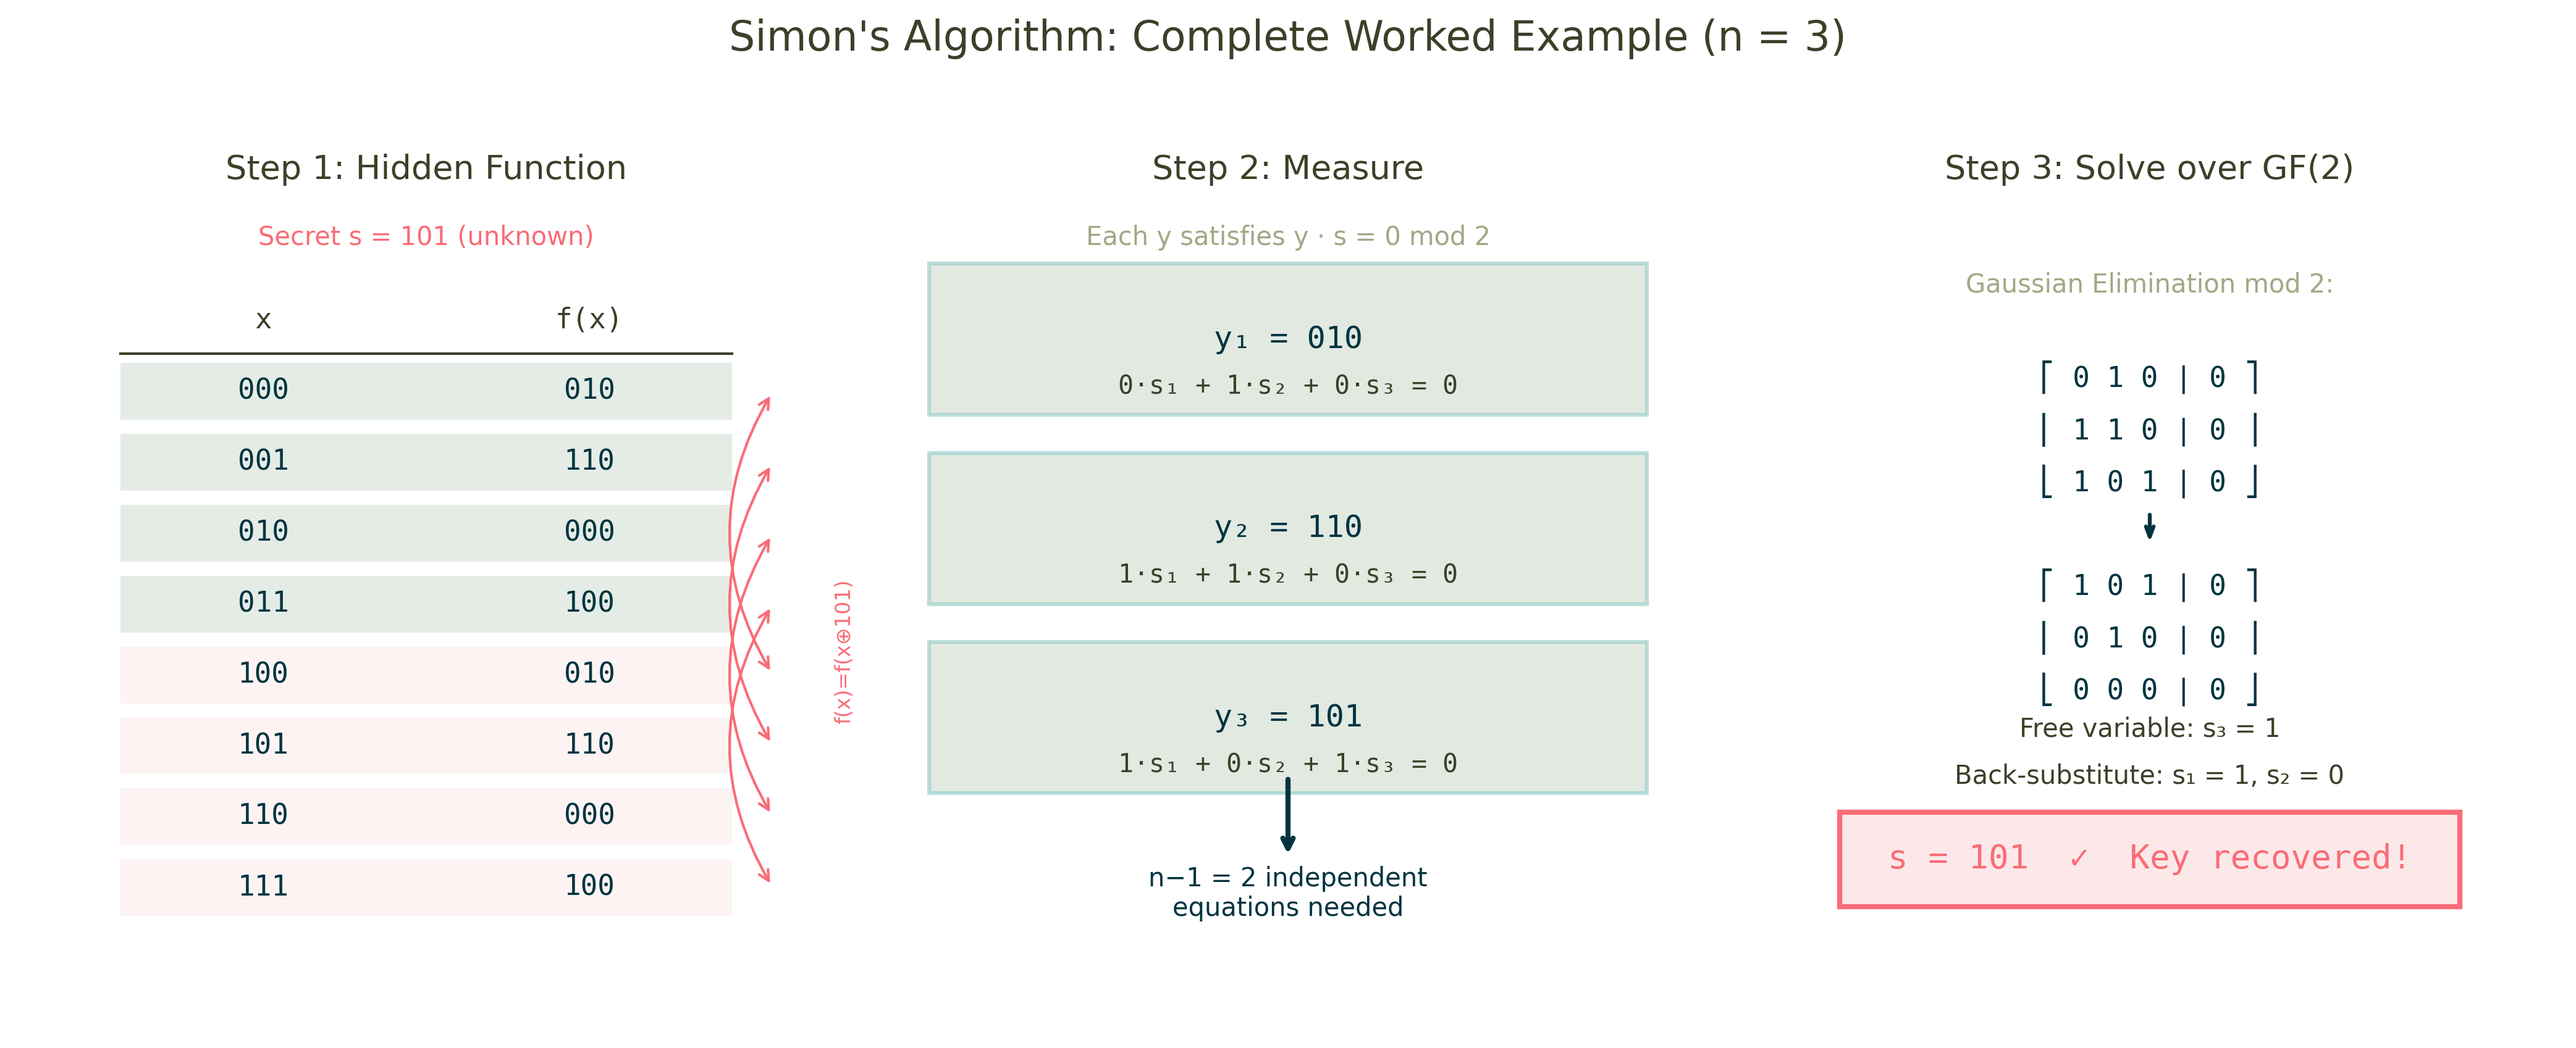
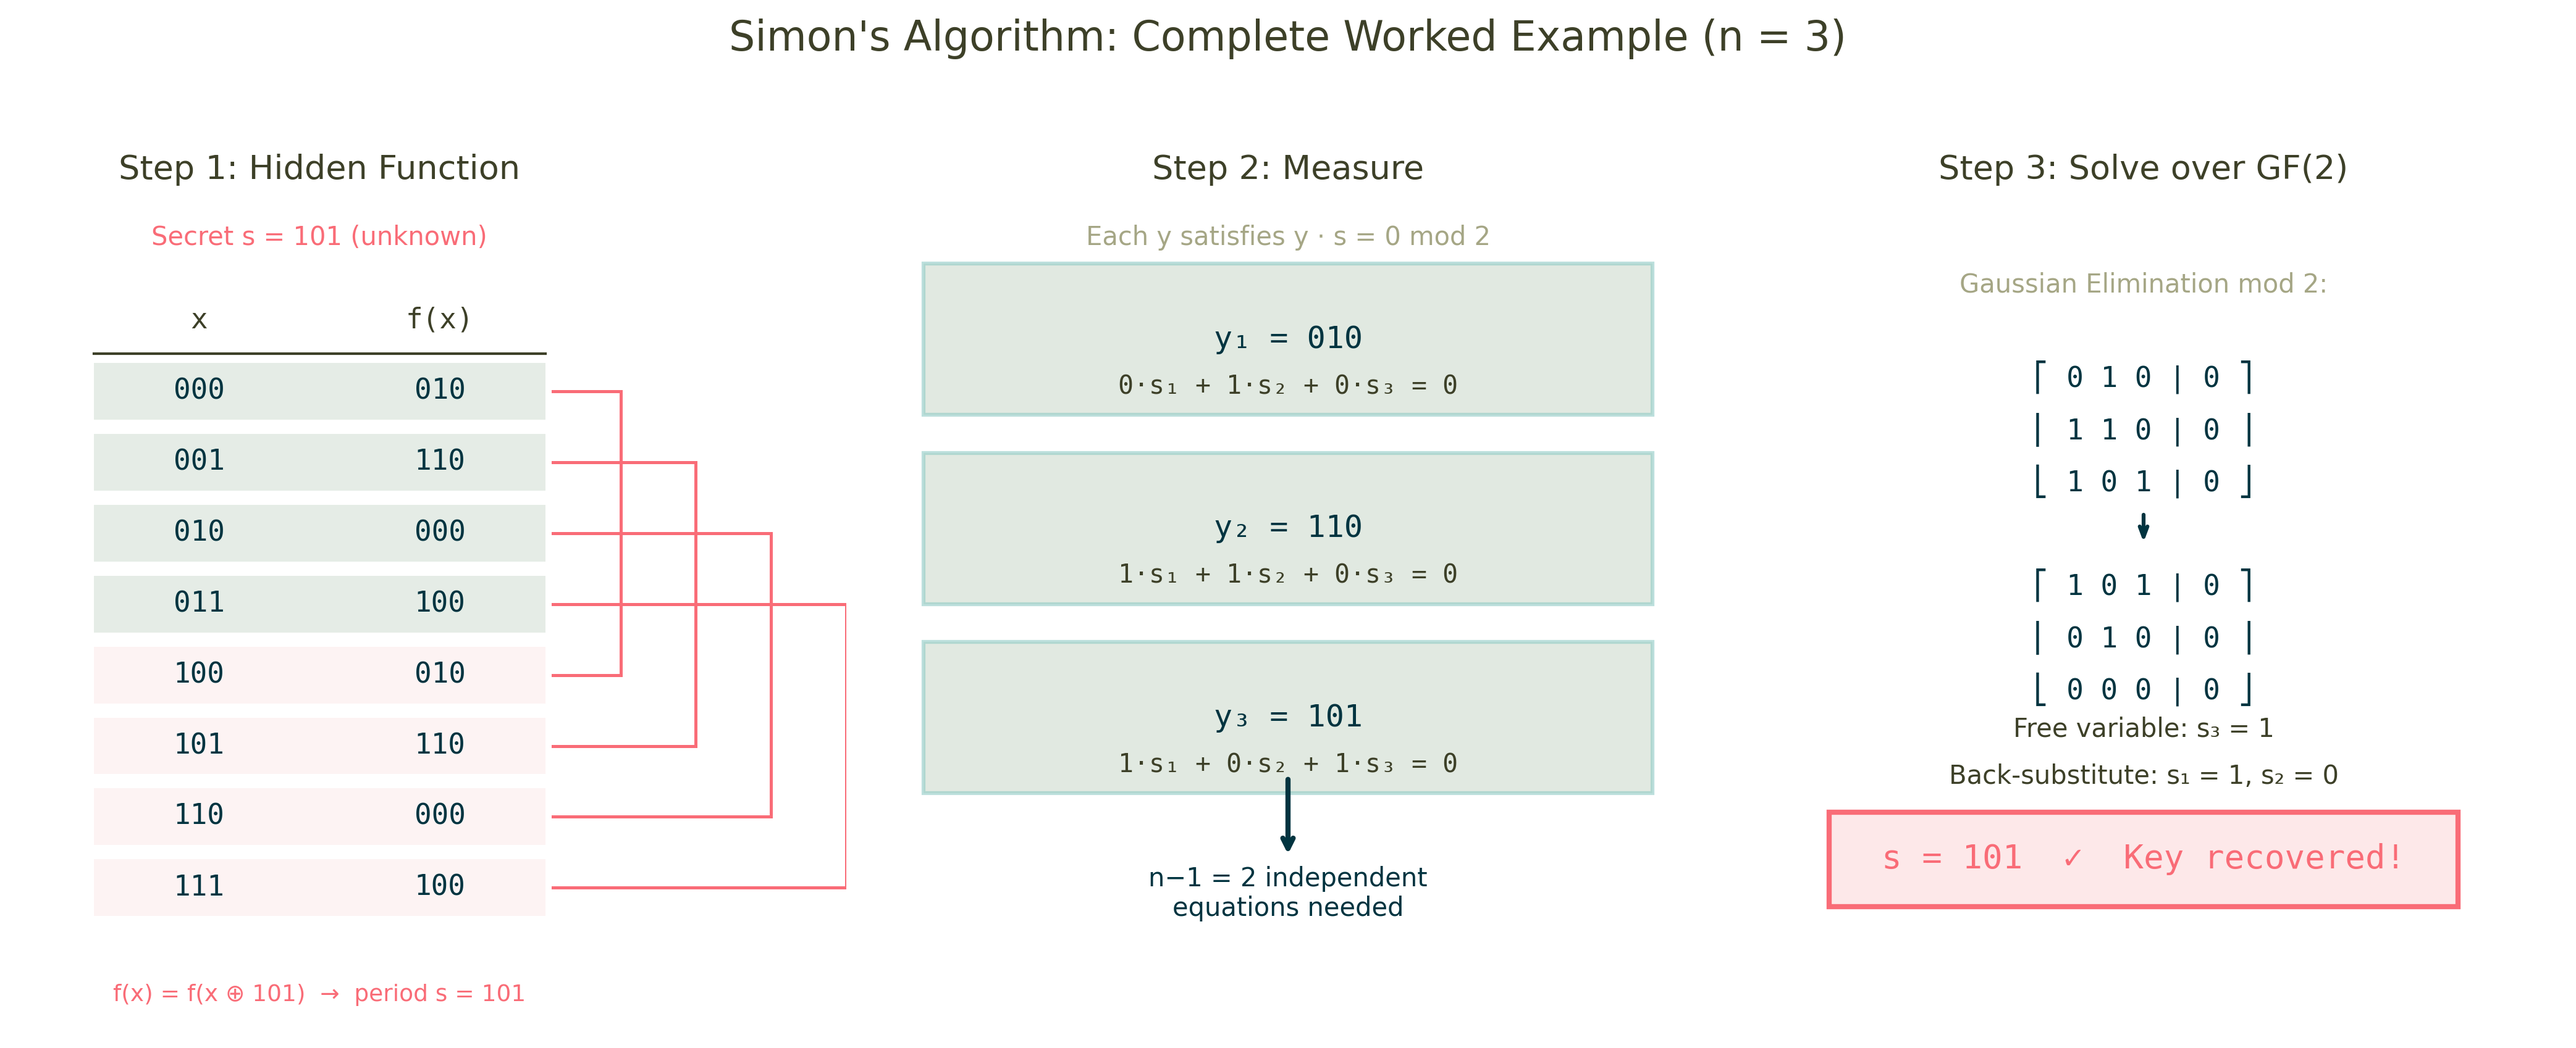
Fix worked example: replace overlapping arrows with clean bracket connectors
https://claude.ai/code/session_017jT87xoW9hxJGxP6ZDqaGx

diff --git a/generate_poster_figures.py b/generate_poster_figures.py
@@ -561,7 +561,7 @@ def fig_simons_worked_example():
         ax.axis("off")
 
     # Panel 1: The hidden function truth table
-    ax1.set_xlim(0, 4)
+    ax1.set_xlim(0, 5.5)
     ax1.set_ylim(-0.5, 9)
     ax1.text(2, 8.5, "Step 1: Hidden Function", fontsize=13,
              ha="center", color=COLORS["dark"])
@@ -599,17 +599,19 @@ def fig_simons_worked_example():
             ax1.text(2.8, y, fx_val, fontsize=11, ha="center", va="center",
                      color=COLORS["navy"], family="monospace")
 
-    # Draw matching pairs
+    # Draw matching pairs with clean brackets
     pairs = [(1, 5), (2, 6), (3, 7), (4, 8)]
-    for a, b in pairs:
+    bracket_xs = [4.0, 4.5, 5.0, 5.5]
+    pair_labels = ["000→010", "001→110", "010→000", "011→100"]
+    for (a, b), bx in zip(pairs, bracket_xs):
         ya = 7.0 - a * 0.75
         yb = 7.0 - b * 0.75
-        ax1.annotate("", xy=(3.7, yb), xytext=(3.7, ya),
-                     arrowprops=dict(arrowstyle="<->", color=COLORS["coral"],
-                                     linewidth=1, connectionstyle="arc3,rad=0.3"))
+        ax1.plot([3.55, bx], [ya, ya], color=COLORS["coral"], linewidth=1.2)
+        ax1.plot([3.55, bx], [yb, yb], color=COLORS["coral"], linewidth=1.2)
+        ax1.plot([bx, bx], [ya, yb], color=COLORS["coral"], linewidth=1.2)
 
-    ax1.text(4.0, 3.5, "f(x)=f(x⊕101)", fontsize=8, color=COLORS["coral"],
-             rotation=90, va="center")
+    ax1.text(2, -0.2, "f(x) = f(x ⊕ 101)  →  period s = 101", fontsize=9,
+             ha="center", color=COLORS["coral"])
 
     # Panel 2: Quantum measurements → equations
     ax2.set_xlim(0, 5)
